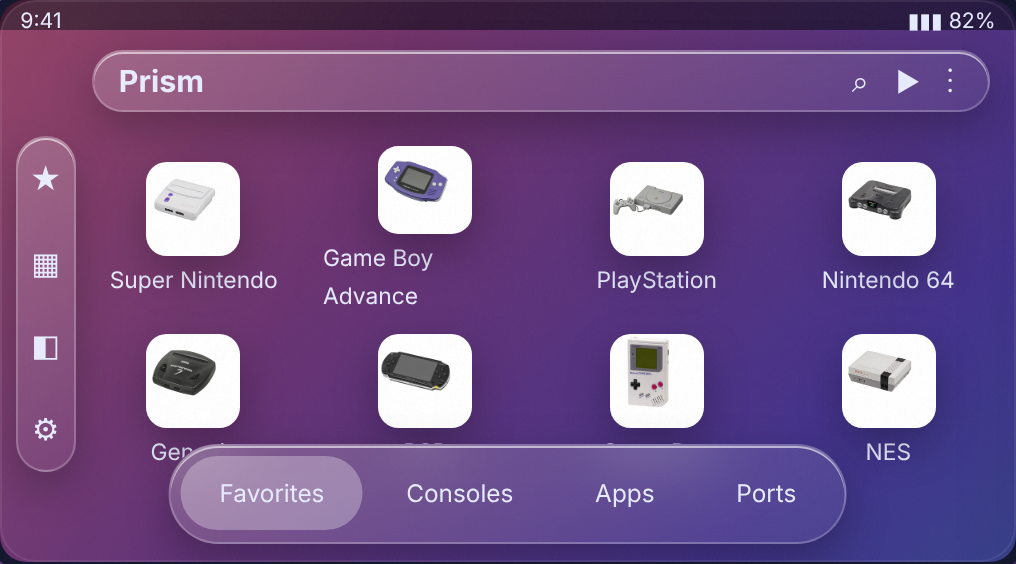
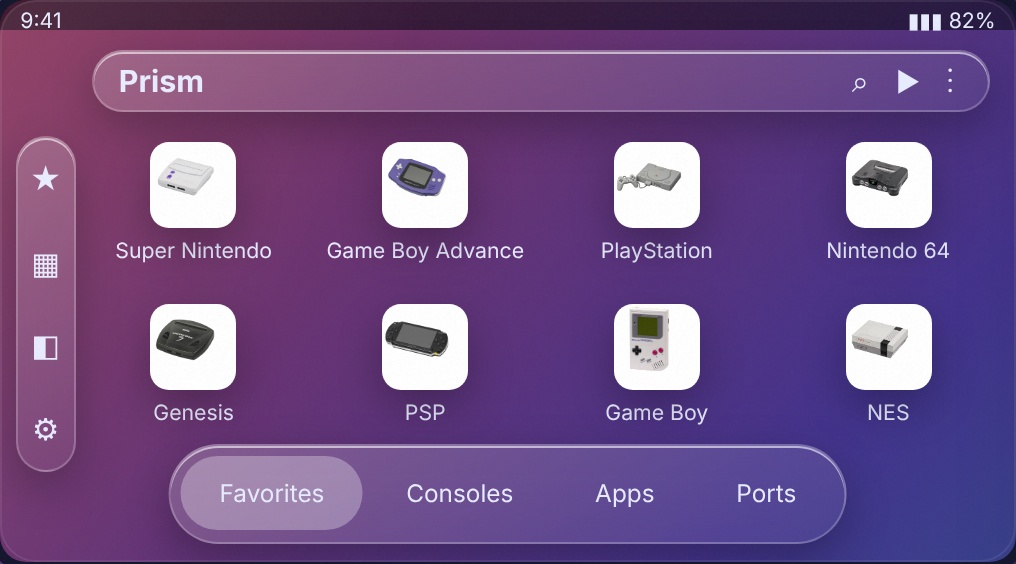
Fix overlapping labels in launcher mock and theme previews
Claude-Session: https://claude.ai/code/session_01Q2e4VrCfPNg6baktNumJMQ

diff --git a/docs/frames.css b/docs/frames.css
@@ -13,9 +13,9 @@
 .mock .mglass{position:absolute;background:linear-gradient(160deg,rgba(255,255,255,.2),rgba(255,255,255,.06));border:1px solid rgba(255,255,255,.22);box-shadow:inset 0 1px 0 rgba(255,255,255,.6),0 8px 22px rgba(0,0,0,.28);backdrop-filter:blur(14px)}
 .mock .top{left:9%;right:2.5%;top:9%;height:11%;border-radius:99px;display:flex;justify-content:space-between;align-items:center;padding:0 2.5%;font-weight:700;font-size:calc(2*var(--u))}
 .mock .dk{left:1.6%;top:24%;bottom:16%;width:5.8%;border-radius:99px;display:flex;flex-direction:column;justify-content:space-around;align-items:center;font-size:calc(2*var(--u))}
-.mock .grid{position:absolute;left:9%;right:2.5%;top:26%;bottom:15%;display:grid;grid-template-columns:repeat(4,1fr);grid-template-rows:repeat(2,1fr);gap:3%}
-.mock .tile{display:flex;flex-direction:column;align-items:center;justify-content:center;gap:4%;font-size:calc(1.5*var(--u))}
-.mock .tile .ic{position:relative;width:46%;aspect-ratio:1;border-radius:22%;display:grid;place-items:center;font-weight:800;font-size:calc(1.9*var(--u));overflow:hidden}
+.mock .grid{position:absolute;left:9%;right:2.5%;top:23%;bottom:21%;display:grid;grid-template-columns:repeat(4,1fr);grid-template-rows:repeat(2,1fr);gap:3%}
+.mock .tile{display:flex;flex-direction:column;align-items:center;justify-content:center;gap:4%;font-size:calc(1.4*var(--u));white-space:nowrap}
+.mock .tile .ic{position:relative;width:42%;aspect-ratio:1;border-radius:22%;display:grid;place-items:center;font-weight:800;font-size:calc(1.9*var(--u));overflow:hidden}
 .mock .tile .ic img{width:80%;height:80%;object-fit:contain;mix-blend-mode:multiply;filter:brightness(1.05)}
 .mock .seg{left:50%;transform:translateX(-50%);bottom:3.5%;display:flex;padding:1%;border-radius:99px;font-size:calc(1.6*var(--u));gap:2px}.mock .seg span{padding:.7em 1.6em;border-radius:99px}.mock .seg .on{background:rgba(255,255,255,.3)}
 .mock .st{position:absolute;inset:0 0 auto;height:5.5%;background:rgba(6,7,16,.55);font-size:calc(1.4*var(--u));display:flex;justify-content:space-between;padding:.4% 2%}
